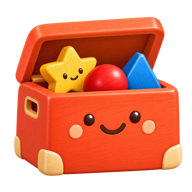
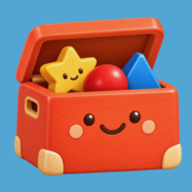
fix: align PWA chrome colors

diff --git a/nuxt.config.js b/nuxt.config.js
@@ -24,6 +24,7 @@ export default {
       { charset: 'utf-8' },
       { name: 'viewport', content: 'width=device-width, initial-scale=1' },
       { hid: 'description', name: 'description', content: '' },
+      { hid: 'theme-color', name: 'theme-color', content: '#54ACDB' },
       { name: 'format-detection', content: 'telephone=no' }
     ],
     link: [
@@ -93,7 +94,7 @@ export default {
 
   pwa: {
     icon: {
-      source: '/static/toybox-icon.png',
+      source: '/static/toybox-icon-512.png',
       fileName: 'toybox-icon.png'
     },
     meta: {

diff --git a/layouts/default.vue b/layouts/default.vue
@@ -1,6 +1,7 @@
 <template>
   <v-app class="toybox-app">
     <v-app-bar
+      app
       fixed
       dark
       color="#54acdb"
